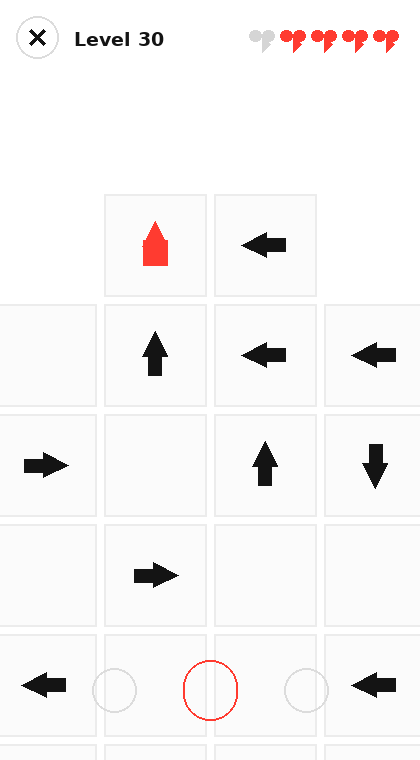
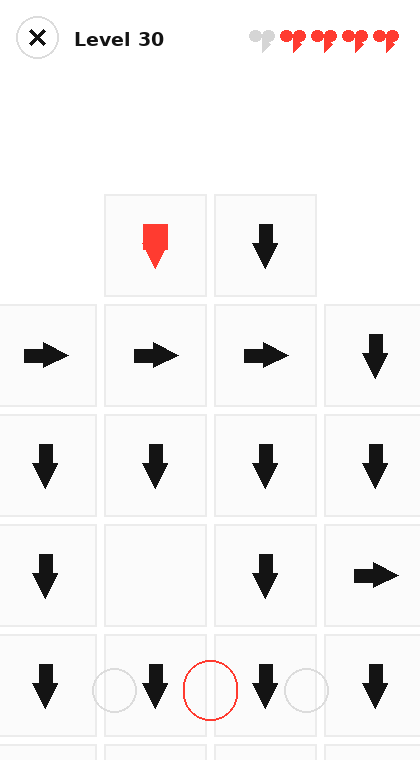
Fill 90% of every board: sweep-order construction (row/col/diag/ring) replaces random placement — 90% fill guaranteed & solvable, denser levels, harder late-game inward-ring modes

diff --git a/web/js/levels.js b/web/js/levels.js
@@ -247,22 +247,51 @@
     return n;
   }
 
+  /* ---------- sweep orders ---------- */
+  /* Order playable cells so that, when arrows are placed in this order, every
+   * cell always has at least one direction whose ray is clear of already-placed
+   * arrows — which guarantees very high fill (up to 100%) while keeping the
+   * board solvable (reverse placement = valid removal order).
+   *   row/col/diag families → arrows flow to one pair of edges (removal sweeps)
+   *   ringIn  (center outward) → arrows point outward (removal: edge → center)
+   *   ringOut (edge inward)    → arrows point inward  (removal: center → edge)
+   */
+  function orderCells(cells, size, mode) {
+    var cx = (size - 1) / 2, cy = (size - 1) / 2;
+    function ringKey(c) {
+      var r = Math.max(Math.abs(c.x - cx), Math.abs(c.y - cy));
+      return r * 4096 + (c.x * 17 + c.y * 13); /* within-ring tie-break */
+    }
+    var key;
+    switch (mode) {
+      case 'row':     key = function (c) { return c.y * size + c.x; }; break;
+      case 'rowRev':  key = function (c) { return (size - 1 - c.y) * size + (size - 1 - c.x); }; break;
+      case 'col':     key = function (c) { return c.x * size + c.y; }; break;
+      case 'colRev':  key = function (c) { return (size - 1 - c.x) * size + (size - 1 - c.y); }; break;
+      case 'diag':    key = function (c) { return (c.x + c.y) * size + c.x; }; break;
+      case 'diagRev': key = function (c) { return (2 * size - 2 - c.x - c.y) * size + (size - 1 - c.x); }; break;
+      case 'ringIn':  key = ringKey; break;
+      case 'ringOut': key = function (c) { return -ringKey(c); }; break;
+      default:        key = function (c) { return c.y * size + c.x; };
+    }
+    return cells.slice().sort(function (a, b) { return key(a) - key(b); });
+  }
+
   /* ---------- generator ---------- */
-  /* Reverse-construction generator. Always solvable.
-   * Only playable (non-wall) cells receive arrows; walls act as exit edges.
-   *
-   * Two complexity levers:
-   *   1. INWARD DIRECTION BIAS (`opts.inwardBias`): when placing an arrow we try
-   *      directions pointing toward the board center first. Inward-pointing
-   *      arrows are naturally blocked at the start of the level, so fewer
-   *      arrows are instantly removable => deeper dependency chains.
-   *   2. START-RATIO FILTER (`opts.maxStartRatio`): if too many arrows are
-   *      removable at the start (ratio = startRemovable / total), re-roll with
-   *      a derived seed (bounded retries). */
+  /* Reverse-construction generator with sweep orders. Always solvable:
+   *   - pick exactly `density` (e.g. 0.90) of the playable cells to fill,
+   *   - place arrows in a sweep order; each arrow points in a direction whose
+   *     ray is clear of already-placed arrows,
+   *   - reversing the placement order yields a valid removal sequence.
+   * Complexity: `maxStartRatio` bounds how many arrows are removable at the
+   * START (ratio = startRemovable / total); on exceed, re-roll with a fresh
+   * seed and the next sweep mode (bounded retries). */
   function generate(size, density, seed, shape, opts) {
     opts = opts || {};
     var tries = opts._tries || 0;
-    var bias = opts.inwardBias || 0;
+    var modes = opts.modes || ['row'];
+    var modeIdx = opts._modeIdx || 0;
+    var mode = modes[modeIdx % modes.length];
     var rng = mulberry32(seed);
     var mask = makeMask(size, shape || 'rect');
     var grid = emptyGrid(size);
@@ -270,52 +299,41 @@
       for (var x = 0; x < size; x++)
         if (!mask[y][x]) grid[y][x] = WALL;
 
-    var placement = []; /* {x,y,dir} in placement order (= reverse removal order) */
-    var playable = playableCount(mask);
-    var target = Math.round(playable * density);
-    var minArrows = Math.min(target, Math.max(3, Math.floor(playable * 0.45)));
-    var ccx = (size - 1) / 2, ccy = (size - 1) / 2;
-
-    /* pool of empty playable cells */
-    var empty = [];
+    var playable = [];
     for (var yy = 0; yy < size; yy++)
       for (var xx = 0; xx < size; xx++)
-        if (mask[yy][xx]) empty.push({ x: xx, y: yy });
-    shuffle(empty, rng);
+        if (mask[yy][xx]) playable.push({ x: xx, y: yy });
 
-    var attempts = 0;
-    while (placement.length < target && empty.length > 0 && attempts++ < 8000) {
-      var cell = empty.pop();
-      var dirs = [UP, RIGHT, DOWN, LEFT];
-      /* sort directions: strongest "toward center" first */
-      if (bias > 0) {
-        dirs.sort(function (a, b) {
-          var wa = 1 + bias * Math.max(0, (ccx - cell.x) * DX[a] + (ccy - cell.y) * DY[a]) / (size / 2);
-          var wb = 1 + bias * Math.max(0, (ccx - cell.x) * DX[b] + (ccy - cell.y) * DY[b]) / (size / 2);
-          return wb - wa;
-        });
-      } else {
-        shuffle(dirs, rng);
-      }
-      var placedDir = -1;
-      for (var i = 0; i < dirs.length; i++) {
-        if (pathClear(grid, size, cell.x, cell.y, dirs[i])) { placedDir = dirs[i]; break; }
-      }
-      if (placedDir === -1) continue; /* permanently blocked — already dropped from pool */
-      grid[cell.y][cell.x] = placedDir;
-      placement.push({ x: cell.x, y: cell.y, dir: placedDir });
+    var target = Math.round(playable.length * density);
+    var minArrows = Math.min(target, Math.max(3, Math.floor(playable.length * 0.4)));
+
+    /* which cells to fill (exactly `target`), then the sweep placement order */
+    var chosen = shuffle(playable.slice(), rng).slice(0, target);
+    var order = orderCells(chosen, size, mode);
+
+    var placement = []; /* {x,y,dir} in placement order (= reverse removal order) */
+    for (var i = 0; i < order.length; i++) {
+      var cell = order[i];
+      var valid = [];
+      for (var d = 0; d < 4; d++)
+        if (pathClear(grid, size, cell.x, cell.y, d)) valid.push(d);
+      if (!valid.length) continue; /* rare with sweep orders — cell stays empty */
+      var dir = valid[Math.floor(rng() * valid.length)];
+      grid[cell.y][cell.x] = dir;
+      placement.push({ x: cell.x, y: cell.y, dir: dir });
     }
 
-    /* too sparse (density target not reached) — retry with lower density, bounded */
-    if (placement.length < minArrows && tries < 16) {
-      return generate(size, Math.max(0.40, density - 0.02), (seed * 2654435761 + 97) >>> 0, shape,
-        { _tries: tries + 1, maxStartRatio: opts.maxStartRatio, maxTries: opts.maxTries, inwardBias: bias });
-    }
-    if (placement.length < 2) {
-      /* last-resort safety: never return an unplayable board */
-      return generate(size, Math.max(0.40, density - 0.05), (seed * 2654435761 + 97) >>> 0, shape,
-        { _tries: tries + 1, maxStartRatio: opts.maxStartRatio, maxTries: opts.maxTries, inwardBias: bias });
-    }
+    var retry = function () {
+      return generate(size, density, (seed * 2654435761 + 97) >>> 0, shape, {
+        _tries: tries + 1,
+        _modeIdx: modeIdx + 1,
+        modes: modes,
+        maxStartRatio: opts.maxStartRatio,
+        maxTries: opts.maxTries
+      });
+    };
+
+    if (placement.length < minArrows) return retry();
 
     var board = {
       size: size,
@@ -326,39 +344,35 @@
     };
 
     /* complexity filter: too many instantly-removable arrows = trivial level */
-    if (opts.maxStartRatio != null && tries < (opts.maxTries || 14)) {
-      var startRemovable = removableArrows(grid, size).length;
-      if (startRemovable / placement.length > opts.maxStartRatio) {
-        return generate(size, density, (seed * 2654435761 + 97) >>> 0, shape,
-          { _tries: tries + 1, maxStartRatio: opts.maxStartRatio, maxTries: opts.maxTries, inwardBias: bias });
-      }
+    if (opts.maxStartRatio != null && tries < (opts.maxTries || 10)) {
+      var ratio = removableArrows(grid, size).length / placement.length;
+      if (ratio > opts.maxStartRatio) return retry();
     }
 
     return board;
   }
 
   /* Difficulty curve by level number.
-   * - Board sizes/shapes are ordered so PLAYABLE CELLS GROW every level:
+   * - Board sizes/shapes ordered so PLAYABLE CELLS GROW every level:
    *   3x3(9) → 4x4(16) → 5x5(25) → 6x6(36) → circle8(44) → heart8(52) →
    *   cross9(65) → rect9(81) → rect10(100)
-   * - Density ramps WITHIN each band so every consecutive level is denser
-   *   (more arrows each level), staying below each board's fill saturation.
-   * - inwardBias ≈ 0.6 makes most arrows point inward => few obvious first
-   *   moves; maxStartRatio shrinks over time => deeper dependency chains. */
+   * - density = 0.90: 90% of every board's cells are filled with arrows.
+   * - Sweep modes rotate for variety; later bands include the harder inward
+   *   (ringOut) construction. maxStartRatio shrinks over time => fewer obvious
+   *   first moves => deeper dependency chains. */
   function levelParams(level) {
-    /* maxStartRatio values are calibrated to what inward-bias construction can
-     * actually achieve (bigger boards have a higher structural floor). */
-    if (level < 3)   return { size: 3, shape: 'rect', density: 0.72 + (level - 1) * 0.06, maxStartRatio: 0.50 };
-    if (level < 6)   return { size: 4, shape: 'rect', density: 0.70 + (level - 3) * 0.02, maxStartRatio: 0.40 };
-    if (level < 11)  return { size: 5, shape: 'rect', density: 0.68 + (level - 6) * 0.015, maxStartRatio: 0.38 };
-    if (level < 19)  return { size: 6, shape: 'rect', density: 0.66 + (level - 11) * 0.01, maxStartRatio: 0.36 };
-    if (level < 31)  return { size: 8, shape: 'circle', density: 0.64 + (level - 19) * 0.006, maxStartRatio: 0.35 };
-    if (level < 46)  return { size: 8, shape: 'heart', density: 0.62 + (level - 31) * 0.005, maxStartRatio: 0.34 };
-    if (level < 61)  return { size: 9, shape: 'cross', density: 0.62 + (level - 46) * 0.004, maxStartRatio: 0.34 };
-    if (level < 81)  return { size: 9, shape: 'rect', density: 0.63 + (level - 61) * 0.003, maxStartRatio: 0.37 };
-    if (level < 101) return { size: 10, shape: 'rect', density: 0.61 + (level - 81) * 0.002, maxStartRatio: 0.40 };
-    return { size: 10, shape: 'rect', density: Math.min(0.64, 0.63 + Math.floor((level - 100) / 20) * 0.004),
-             maxStartRatio: 0.39 };
+    var easy = ['row', 'rowRev', 'col', 'colRev', 'diag', 'diagRev'];
+    var hard = ['rowRev', 'colRev', 'diagRev', 'ringIn', 'ringOut', 'ringOut'];
+    if (level < 3)   return { size: 3, shape: 'rect', density: 0.88, maxStartRatio: 0.55, modes: easy };
+    if (level < 6)   return { size: 4, shape: 'rect', density: 0.90, maxStartRatio: 0.48, modes: easy };
+    if (level < 11)  return { size: 5, shape: 'rect', density: 0.90, maxStartRatio: 0.40, modes: easy };
+    if (level < 19)  return { size: 6, shape: 'rect', density: 0.90, maxStartRatio: 0.34, modes: easy };
+    if (level < 31)  return { size: 8, shape: 'circle', density: 0.90, maxStartRatio: 0.32, modes: easy };
+    if (level < 46)  return { size: 8, shape: 'heart', density: 0.90, maxStartRatio: 0.30, modes: easy };
+    if (level < 61)  return { size: 9, shape: 'cross', density: 0.90, maxStartRatio: 0.28, modes: hard };
+    if (level < 81)  return { size: 9, shape: 'rect', density: 0.90, maxStartRatio: 0.26, modes: hard };
+    if (level < 101) return { size: 10, shape: 'rect', density: 0.90, maxStartRatio: 0.24, modes: hard };
+    return { size: 10, shape: 'rect', density: 0.90, maxStartRatio: 0.22, modes: hard };
   }
 
   function hashStr(s) {
@@ -370,8 +384,9 @@
   function buildLevel(level) {
     var p = levelParams(level);
     var seed = (level * 2654435761) ^ (p.size * 48271) ^ hashStr(p.shape) ^ Math.round(p.density * 1000);
+    var mode = p.modes[(level - 1) % p.modes.length];
     return generate(p.size, p.density, seed >>> 0, p.shape,
-      { maxStartRatio: p.maxStartRatio, maxTries: 14, inwardBias: 0.6 });
+      { sweepMode: mode, modes: p.modes, maxStartRatio: p.maxStartRatio, maxTries: 10 });
   }
 
   /* Next arrow to remove per the known solution (used by the hint system) */
@@ -398,6 +413,7 @@
     solveAny: solveAny,
     validateSolution: validateSolution,
     generate: generate,
+    orderCells: orderCells,
     levelParams: levelParams,
     buildLevel: buildLevel,
     nextSolutionArrow: nextSolutionArrow,

diff --git a/web/test/levels.test.js b/web/test/levels.test.js
@@ -169,5 +169,30 @@ console.log('Levels library loaded. Running generator + solver tests...\n');
   check('level 100 has >= 55 arrows', counts[100] >= 55, counts[100]);
 }
 
+// 8) Fill guarantee: ~90% of every board's cells are filled with arrows
+{
+  console.log('[8] Fill guarantee — 90% of cells filled with arrows');
+  let minFill = 1, maxFill = 0, totalFill = 0, n = 0, under = 0;
+  for (let lvl = 1; lvl <= 400; lvl++) {
+    const lv = L.buildLevel(lvl);
+    const arrows = L.countArrows(lv.grid);
+    const cells = L.playableCount(lv.mask);
+    const fill = arrows / cells;
+    totalFill += fill; n++;
+    if (fill < minFill) minFill = fill;
+    if (fill > maxFill) maxFill = fill;
+    if (fill < 0.85) under++;
+  }
+  check('every level >= 85% filled', under === 0, under + ' levels under 85%');
+  check('min fill across 400 levels >= 0.85', minFill >= 0.85, 'min ' + minFill.toFixed(3));
+  check('average fill ≈ 90% (' + (totalFill / n * 100).toFixed(1) + '%)',
+    Math.abs(totalFill / n - 0.90) < 0.03);
+  /* spot-check the two extremes the user cares about */
+  const l1 = L.buildLevel(1), l100 = L.buildLevel(100);
+  check('level 1: 3x3 has 8 arrows (89% of 9 cells)', L.countArrows(l1.grid) >= 8, L.countArrows(l1.grid));
+  check('level 100: 10x10 has 90 arrows (90% of 100 cells)',
+    L.countArrows(l100.grid) >= 89 && L.playableCount(l100.mask) === 100, L.countArrows(l100.grid));
+}
+
 console.log('\n' + (failures === 0 ? 'ALL TESTS PASSED ✔' : failures + ' FAILURES ✘'));
 process.exit(failures === 0 ? 0 : 1);
